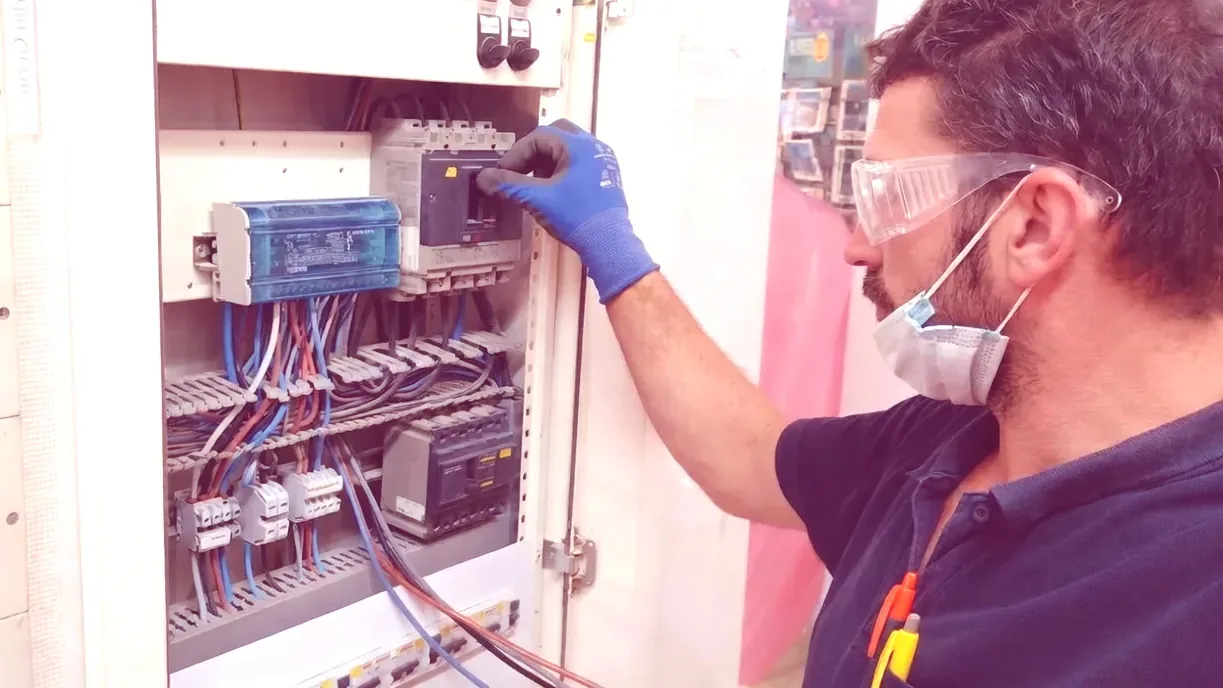
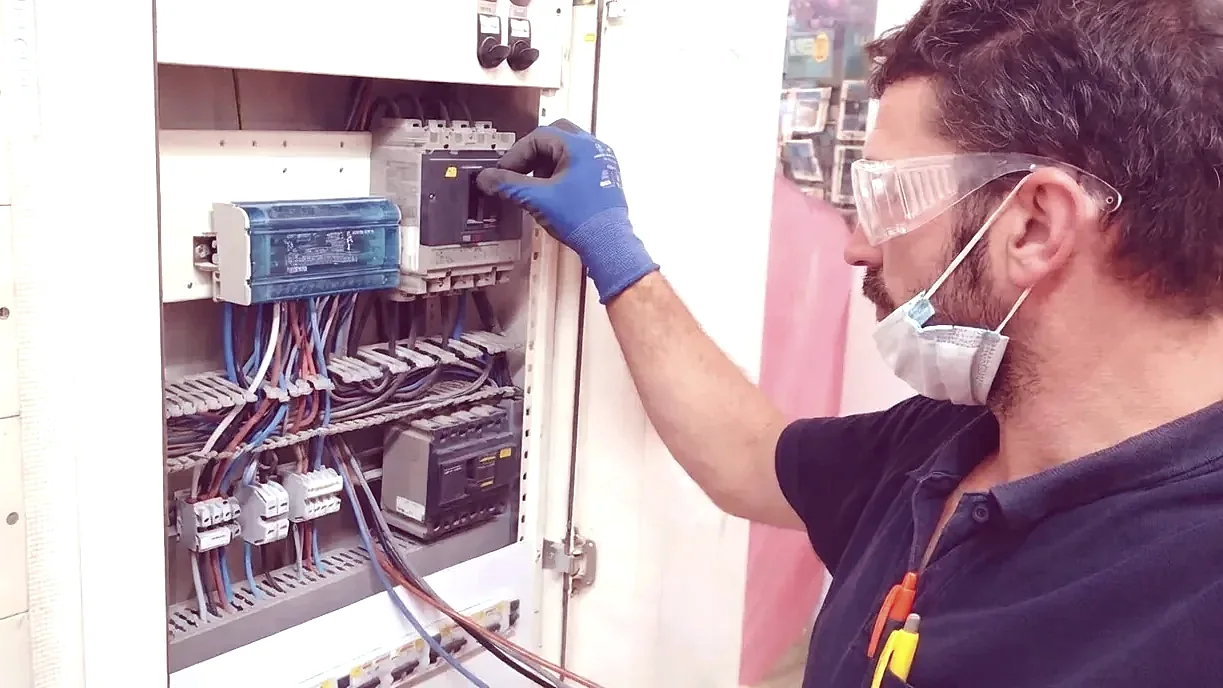
style: repaso visual — foto de #Okservice.es sin velo rosa, foco visible sobre claro, móvil sin desbordes
- Foto de #Okservice.es: corrección de color (fuera el tono rosa, más contraste). Misma foto real.
- Anillo de foco en latón oscuro sobre fondos claros (el claro daba 1,9:1); latón claro sobre foto y noche.
- Móvil: botones de portada del mismo ancho, enlaces del menú con 44px de área táctil, y por debajo de 380px solo el teléfono (la cabecera se salía 60px a 320px, ya pasaba antes).
- Pie de la banda de paisaje legible con un degradado suave.
- Barra de desplazamiento y cursor de texto con la paleta.

diff --git a/assets/css/villverg.css b/assets/css/villverg.css
@@ -61,6 +61,7 @@ body {
   text-rendering: optimizeLegibility;
 }
 ::selection { background: var(--laton-claro); color: var(--noche-hondo); }
+html { scrollbar-color: color-mix(in srgb, var(--noche) 45%, var(--piedra)) var(--blanco); caret-color: var(--laton); }
 img { display: block; max-width: 100%; height: auto; }
 a { color: inherit; text-underline-offset: 0.22em; text-decoration-thickness: 1px; }
 h1, h2, h3 {
@@ -69,7 +70,9 @@ h1, h2, h3 {
   font-variation-settings: "WONK" 0;
 }
 p { margin: 0 0 1.1em; max-width: 64ch; }
-:focus-visible { outline: 2px solid var(--laton-claro); outline-offset: 4px; }
+/* Foco: latón oscuro sobre claro (5,9:1); latón claro sobre foto y noche, donde el oscuro no se ve. */
+:focus-visible { outline: 2px solid var(--laton); outline-offset: 4px; }
+.cabecera:not(.cabecera-solida) :focus-visible, .portada :focus-visible, .contacto :focus-visible, .pie :focus-visible { outline-color: var(--laton-claro); }
 
 .saltar { position: absolute; left: -9999px; }
 .saltar:focus { left: var(--margen); top: 1rem; z-index: 20; background: var(--noche); color: var(--blanco); padding: 0.6rem 1rem; }
@@ -100,9 +103,14 @@ p { margin: 0 0 1.1em; max-width: 64ch; }
   padding-left: clamp(1.25rem, 0.5rem + 2.5vw, 2.75rem);
   border-left: 1px solid color-mix(in srgb, currentColor 35%, transparent);
 }
-@media (max-width: 719px) { .menu-opcional { display: none; } }
+@media (max-width: 719px) {
+  .menu-opcional { display: none; }
+  .menu a:not(.menu-opcional) { display: inline-flex; align-items: center; min-height: 44px; }
+}
 .menu a { white-space: nowrap; }
 @media (max-width: 419px) { .menu-telefono { padding-left: 1rem; } .cabecera .logotipo { font-size: 1.15rem; letter-spacing: 0.24em; } }
+/* Por debajo de 380px no caben logotipo, Contacto y teléfono: queda el teléfono, que es la acción directa. */
+@media (max-width: 379px) { .menu a:not(.menu-telefono) { display: none; } .menu-telefono { padding-left: 0; border-left: 0; } }
 
 /* ---------- portada ---------- */
 
@@ -124,6 +132,7 @@ p { margin: 0 0 1.1em; max-width: 64ch; }
 .portada h1 { font-size: var(--t-h1); font-weight: 600; max-width: 14ch; margin-bottom: 1.5rem; text-shadow: 0 2px 24px rgba(10, 29, 43, 0.35); }
 .portada-entradilla { font-size: var(--t-lg); line-height: 1.5; color: rgba(251, 250, 247, 0.9); max-width: 40ch; margin-bottom: 2.4rem; }
 .portada-acciones { display: flex; flex-wrap: wrap; gap: 0.9rem; }
+@media (max-width: 479px) { .portada-acciones { display: grid; } }
 .portada-pie {
   position: absolute; right: var(--margen); bottom: clamp(3.5rem, 2rem + 6vw, 7rem);
   margin: 0; font-size: var(--t-xs); letter-spacing: 0.04em; color: rgba(251, 250, 247, 0.92); text-shadow: 0 1px 12px rgba(10, 29, 43, 0.7);
@@ -199,8 +208,12 @@ p { margin: 0 0 1.1em; max-width: 64ch; }
 
 .banda { position: relative; height: clamp(22rem, 55vw, 44rem); overflow: hidden; margin: 0; }
 .banda img { width: 100%; height: 100%; object-fit: cover; object-position: 50% 45%; }
+.banda::after {
+  content: ''; position: absolute; inset: auto 0 0; height: 9rem; pointer-events: none;
+  background: linear-gradient(to top, rgba(10, 29, 43, 0.55), rgba(10, 29, 43, 0));
+}
 .banda figcaption {
-  position: absolute; left: var(--margen); bottom: 1.5rem;
+  position: absolute; left: var(--margen); bottom: 1.5rem; z-index: 1;
   font-size: var(--t-sm); color: var(--blanco); letter-spacing: 0.02em;
   text-shadow: 0 1px 14px rgba(10, 29, 43, 0.85);
 }

diff --git a/DESIGN.md b/DESIGN.md
@@ -115,7 +115,7 @@ Paleta de noche atlántica sobre papel cálido, con un único metal. Los neutros
 
 ### Secondary
 - **Latón** (`laton`, #7a5c2e): acento sobre fondos claros, usado en el oficio de cada marca (Fraunces) y en las viñetas de los textos legales.
-- **Latón Claro** (`laton-claro`, #d2b07a): acento sobre fondos oscuros y estado interactivo: filete bajo el correo de contacto, hover de enlaces sobre noche, hover del botón claro, anillo de foco y selección de texto.
+- **Latón Claro** (`laton-claro`, #d2b07a): acento sobre fondos oscuros y estado interactivo: filete bajo el correo de contacto, hover de enlaces sobre noche, hover del botón claro, anillo de foco sobre foto y noche, y selección de texto. Sobre fondos claros el foco va en Latón (5,9:1), porque el Latón Claro se queda en 1,9:1.
 
 ### Neutral
 - **Blanco Cálido** (`blanco`, #fbfaf7): fondo de página y texto sobre noche. Nunca #fff.
@@ -151,7 +151,7 @@ Paleta de noche atlántica sobre papel cálido, con un único metal. Los neutros
 
 Contenedor de 80rem (`ancho`) con margen lateral fluido `clamp(1.25rem, 0.5rem + 3.5vw, 4.5rem)`. Ritmo vertical por sección `clamp(5rem, 3.5rem + 7vw, 10rem)`, con la presentación a 0,8 de ese valor por debajo. Las cuadrículas de dos columnas se activan a 960px (presentación 1.35fr/1fr, empresa 1fr/1.3fr, contacto 1.2fr/1fr) con huecos de 6rem; las filas de marca parten a 900px (1.15fr/1fr, alternando el lado de la foto) con altura mínima `min(86vh, 54rem)`.
 
-La portada ocupa `max(100svh, 40rem)`, con el texto abajo a la izquierda. La cabecera es absoluta y transparente sobre la portada; en el resto de páginas es estática, con fondo claro y filete inferior. En menos de 720px se ocultan los enlaces opcionales del menú (queda Contacto y el teléfono) y el pie vertical de la foto. La banda de paisaje mide `clamp(22rem, 55vw, 44rem)`. Las cifras de presentación usan `auto-fit` con mínimo de 13rem.
+La portada ocupa `max(100svh, 40rem)`, con el texto abajo a la izquierda. La cabecera es absoluta y transparente sobre la portada; en el resto de páginas es estática, con fondo claro y filete inferior. En menos de 720px se ocultan los enlaces opcionales del menú (queda Contacto y el teléfono, con 44px de área táctil) y el pie vertical de la foto; en menos de 380px queda solo el teléfono. En menos de 480px los dos botones de la portada ocupan el mismo ancho. La banda de paisaje mide `clamp(22rem, 55vw, 44rem)`. Las cifras de presentación usan `auto-fit` con mínimo de 13rem.
 
 ### Named Rules
 **The Split Row Rule.** Las marcas se presentan en filas partidas foto/texto que alternan lado y fondo (piedra, blanco). Nunca en rejilla de tarjetas iguales.
@@ -174,7 +174,7 @@ Esquina recta en todo: botones, fotos, filas, fichas. Radio cero es la regla del
 - **Claro (primario sobre foto):** fondo Blanco Cálido, texto noche. Hover: fondo Latón Claro.
 - **Borde (secundario sobre foto):** transparente, filete blanco al 75 %, texto blanco. Hover: se rellena de blanco con texto noche.
 - **Oscuro (sobre claro):** fondo noche, texto blanco. Hover: noche hondo.
-- **Transición:** 0,35s con `--ease` cubic-bezier(0.16, 1, 0.3, 1). Foco: anillo de 2px en Latón Claro con desfase de 4px.
+- **Transición:** 0,35s con `--ease` cubic-bezier(0.16, 1, 0.3, 1). Foco: anillo de 2px con desfase de 4px, en Latón sobre claro y en Latón Claro sobre foto y noche.
 
 ### Navigation
 Cabecera con logotipo espaciado a la izquierda y menú a la derecha en Manrope 500 a 0,9375rem. Los enlaces subrayan con un filete de 1px que crece de izquierda a derecha en 0,45s al pasar el cursor. El teléfono va separado por un filete vertical al 35 % del color actual. Sobre portada es blanco; en cabecera sólida, noche.
